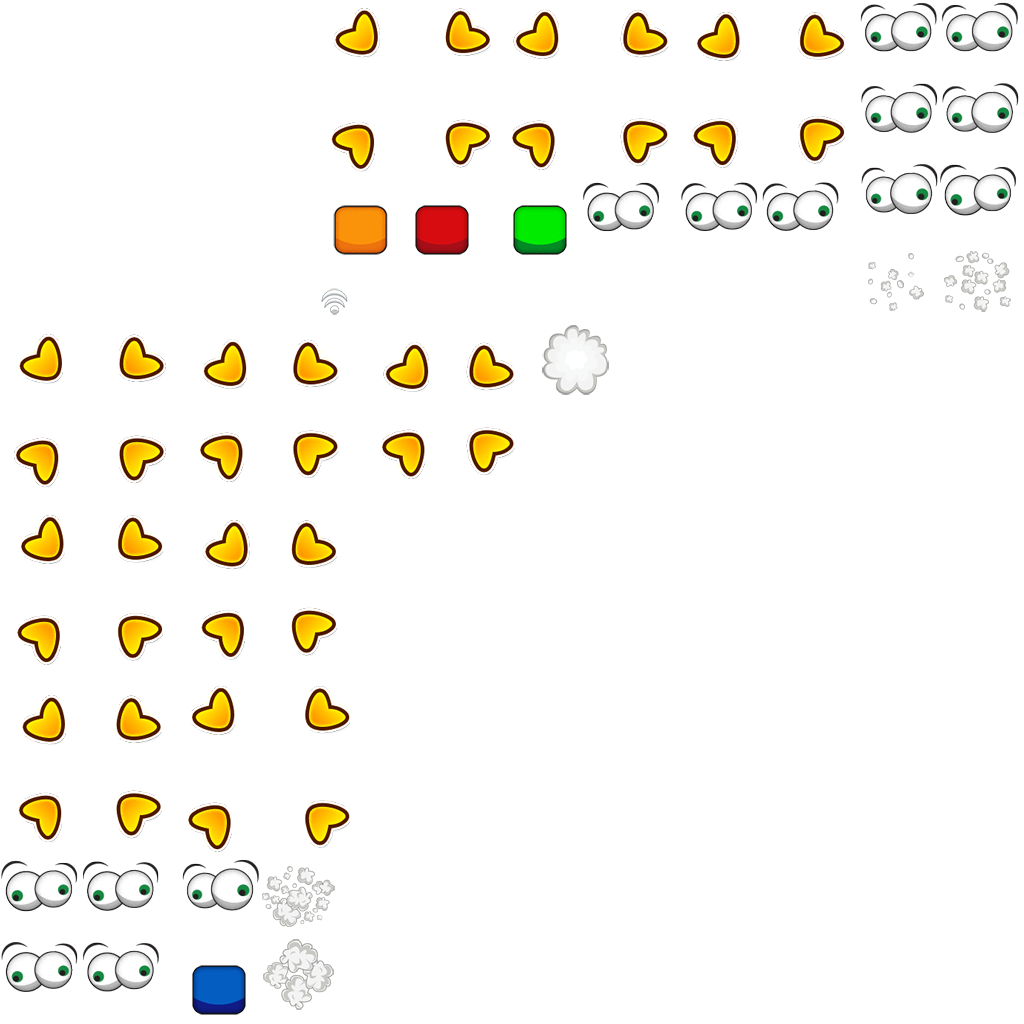
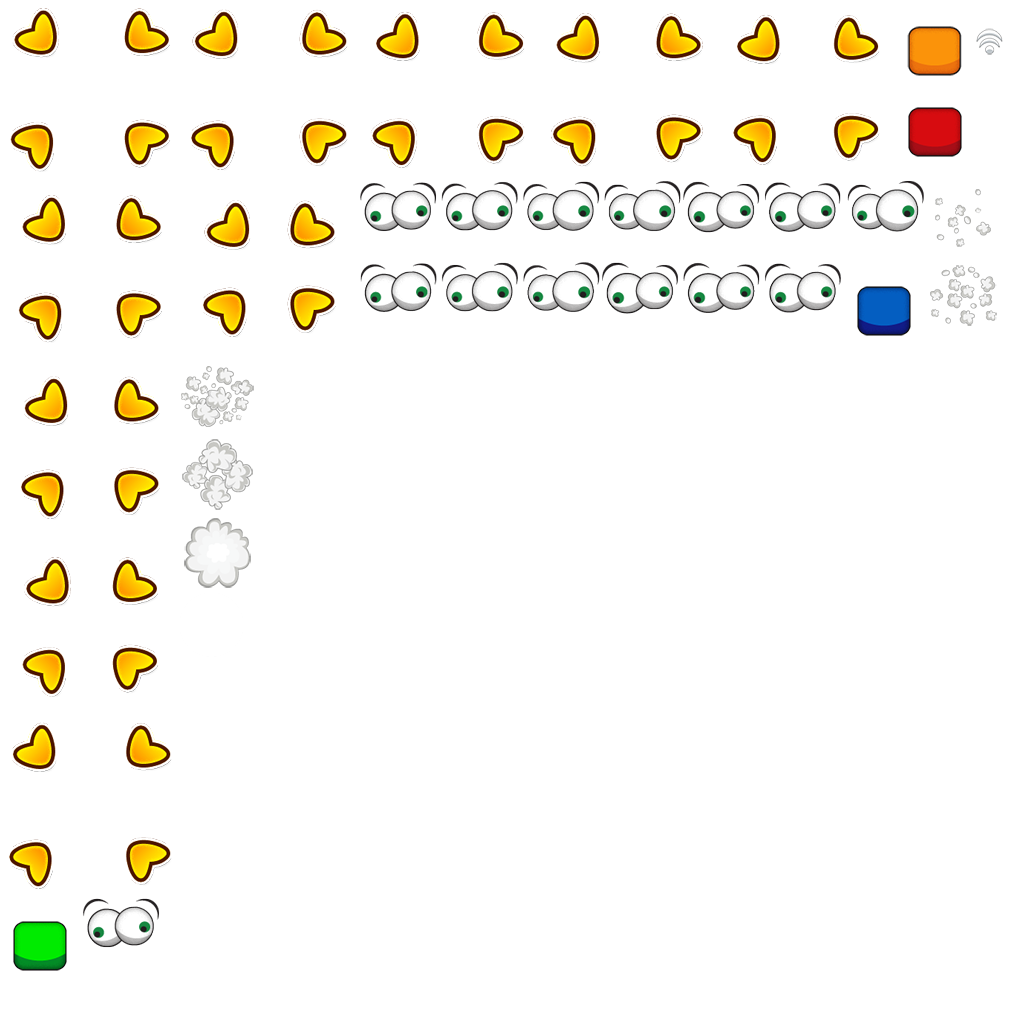
lowed rays rotation; moved rays out of Main Texture

diff --git a/src/com/emerginggames/snappers2/gdx/Resources.java b/src/com/emerginggames/snappers2/gdx/Resources.java
@@ -34,12 +34,13 @@ public class Resources {
         public static boolean isBgLoading;
         public static String bgName;
         public static PrepareableTextureAtlas.TextureAtlasData mainTextures;
+        public static TextureData rays;
     }
 
     public static TextureRegion bg;
     public static PrepareableTextureAtlas mainTextures;
     public static TextureRegion hintCircle;
-    public static TextureRegion rays;
+    public static Texture rays;
 
     public static PrepareableTextureAtlas.AtlasRegion[] snapperBack;
     public static PrepareableTextureAtlas.AtlasRegion[] eyeFrames;
@@ -113,7 +114,8 @@ public class Resources {
             hintFrames[i] = hintFrames[18-i];
 
         hintCircle = mainTextures.findRegion("round");
-        rays = mainTextures.findRegion("rays");
+        //rays = mainTextures.findRegion("rays");
+        rays = new Texture(Preload.rays);
     }
 
     public static boolean loadBg(String name) {
@@ -156,12 +158,16 @@ public class Resources {
                 FileHandle packFile = Gdx.files.internal(dir + "mainTexture.txt");
                 Preload.mainTextures = new PrepareableTextureAtlas.TextureAtlasData(packFile, packFile.parent(), false);
             }
+
+            if (Preload.rays == null)
+                Preload.rays = new FileTextureData(Gdx.files.internal(dir + "rays.png"), null, Pixmap.Format.RGBA4444, false);
         }
     }
 
     public static void preparePreload() {
         synchronized (syncLock) {
             prepareData(Preload.mainTextures);
+            prepareData(Preload.rays);
         }
     }
 

diff --git a/src/com/emerginggames/snappers2/gdx/Game.java b/src/com/emerginggames/snappers2/gdx/Game.java
@@ -21,7 +21,7 @@ import com.emerginggames.snappers2.model.Level;
 public class Game implements ApplicationListener{
     public enum Stages{MainStage, GameOverStage, HelpStage, HintMenu}
     public Stages currentStageE;
-    private static final float RAYS_SPEED =  - 360 / 2;
+    private static final float RAYS_SPEED =  - 360 / 10;
     private static final float RAYS_OPACITY =  0.8f;
 
 
